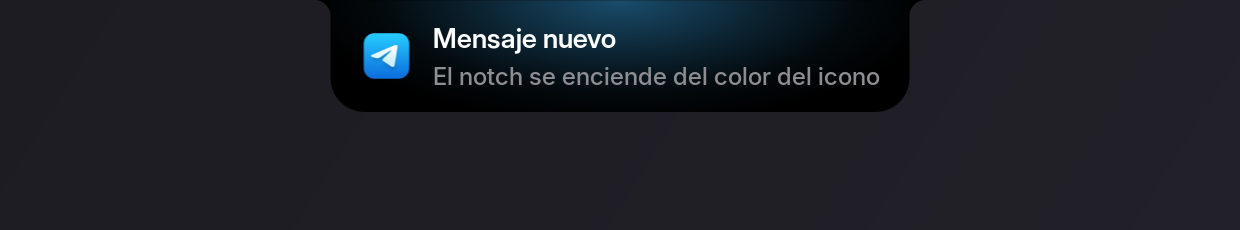
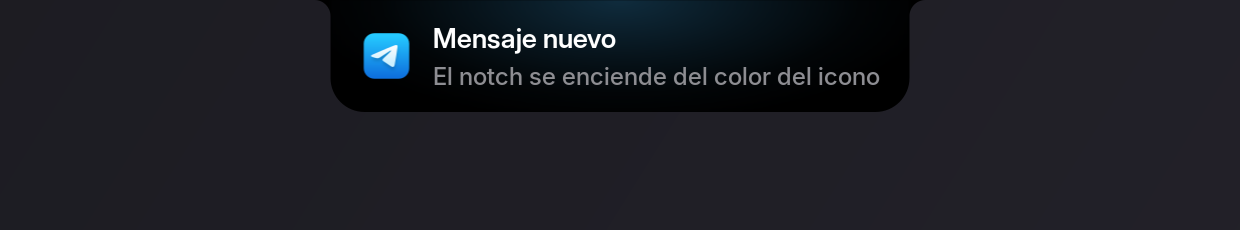
El resplandor, mas bajo; y el lanzador se tiñe de lo que vas a abrir
Dos cosas. La luz baja de 0,45 a 0,26: se sigue viendo que hay un color
ahi arriba sin que la tarjeta se vuelva verde.

Y el lanzador tambien se enciende, que es donde mas se nota: toma el
color del resultado SEÑALADO y cambia al moverte por la lista, asi que
el notch se tiñe del programa que vas a abrir antes de abrirlo. Un
resultado que no es un programa --una cuenta, un comando, una accion-
usa el azul del acento, que es con el que se dibuja su icono.

Para eso hace falta un tope de alto en pixeles: el lanzador mide 500 px
y la elipse esta definida en fracciones de la isla, asi que sin tope se
estiraria hasta abajo y seria un tinte en vez de una luz que entra por
arriba.

Claude-Session: https://claude.ai/code/session_01XVYWSP19DR3ycNTVCStvp5

Changed region(s): [[0.3984, 0.0, 0.6129, 0.213]]

diff --git a/islandd.py b/islandd.py
@@ -700,6 +700,21 @@ class Island(Gtk.Window):
             return sources.color_dominante(d.get("art"), T.ACCENT)
         if act.kind == "captura":
             return T.ACCENT
+        if act.kind == "panel" and d.get("which") == "launcher":
+            # El lanzador toma el color de lo que tienes SEÑALADO, y
+            # cambia al moverte por la lista: el notch se tiñe del
+            # programa que vas a abrir antes de abrirlo. Es la misma
+            # idea que el resto --el color de lo que estas viendo-,
+            # solo que aqui lo que estas viendo cambia con las flechas.
+            st = self.launch
+            if not st or not st["res"]:
+                return None
+            fila = st["res"][min(st["sel"], len(st["res"]) - 1)]
+            tipo, titulo, _sub, icono, _carga = fila
+            if tipo in ("app", "win") and icono:
+                return sources.color_dominante(
+                    sources.load_icon(icono, 52, titulo), T.ACCENT)
+            return T.ACCENT
         if act.kind == "power":
             # Solo al enchufar. Que el notch se ponga verde al conectar
             # el cargador es la clase de aviso que se ve sin mirar.

diff --git a/theme.py b/theme.py
@@ -569,9 +569,14 @@ ACCION_SUB = {
 # El tamano va en fracciones de la isla, no en pixeles: asi la elipse
 # tiene la misma forma en una pildora de 300 y en una tarjeta de 900, y
 # una sola textura por color vale para las dos.
-GLOW_IN_A  = 0.45     # opacidad en el centro
+GLOW_IN_A  = 0.26     # opacidad en el centro
 GLOW_IN_RX = 0.55     # radio horizontal, en anchos de isla
 GLOW_IN_RY = 1.10     # radio vertical, en altos de isla
+# Tope del alto de la luz, este en pixeles. Un panel alto --el lanzador
+# son 500 px- tiene la misma forma que una tarjeta, asi que sin tope la
+# elipse se estiraria hasta abajo y teñiria el panel entero en vez de
+# entrar por arriba.
+GLOW_IN_MAXH = 180
 
 # El halo de FUERA (el que se derrama sobre el escritorio). Apagado por
 # defecto: es otro efecto distinto, y los dos a la vez se pisan.

diff --git a/render.py b/render.py
@@ -812,9 +812,12 @@ def resplandor_dentro(cr, x, y, w, h, color, alpha):
             _dentro_cache.clear()
         tex = _dentro_cache[clave] = _dentro_tex(color)
     tw, th = tex.get_width(), tex.get_height()
+    # El alto de la luz tiene tope: en un panel alto la elipse llegaria
+    # hasta abajo y seria un tinte, no una luz que entra por arriba.
+    alto = min(h, T.GLOW_IN_MAXH)
     cr.save()
     cr.translate(x, y)
-    cr.scale(w / float(tw), h / float(th))
+    cr.scale(w / float(tw), alto / float(th))
     cr.set_source_surface(tex, 0, 0)
     cr.get_source().set_filter(cairo.FILTER_BILINEAR)
     cr.paint_with_alpha(alpha)

diff --git a/README.md b/README.md
@@ -126,10 +126,24 @@ estirarla es justo lo que la hace un medio radial estirado. Medido: 0,16 ms
 por fotograma, frente a 0,9 pintando el degradado de verdad cada vez.
 
 Brillan las **tarjetas**: avisos, dictado, música, capturas, el cargador al
-enchufarlo y las cuentas atrás al cumplirse. Los paneles que abres tú, no: un
-panel no se anuncia, lo has pedido. Entre dos avisos seguidos el color
-**viaja** en vez de saltar, y se enciende y se apaga con muelle: un halo que
-aparece de golpe se lee como un parpadeo.
+enchufarlo y las cuentas atrás al cumplirse. Los demás paneles no: un panel no
+se anuncia, lo has pedido.
+
+<p align="center">
+  <img src="docs/resplandor-lanzador.png" alt="El lanzador con Firefox seleccionado y un resplandor naranja, del color de su icono, entrando por el canto de arriba" width="520">
+</p>
+
+**El lanzador es la excepción**, y es donde más se nota: toma el color del
+resultado que tienes **señalado** y cambia al moverte por la lista, así que el
+notch se tiñe del programa que vas a abrir antes de abrirlo. Es la misma regla
+de siempre —el color de lo que estás viendo—, solo que aquí lo que estás
+viendo cambia con las flechas. En un panel alto la luz no se estira hasta
+abajo: tiene tope en píxeles, para que siga siendo una luz que entra por
+arriba y no un tinte.
+
+Entre dos avisos seguidos —o entre dos resultados— el color **viaja** en vez
+de saltar, y se enciende y se apaga con muelle: un halo que aparece de golpe
+se lee como un parpadeo.
 
 Hay además un halo que se derrama **fuera**, sobre el escritorio, con la
 silueta del notch desenfocada. Viene apagado (`GLOW_HALO` en `theme.py`)
